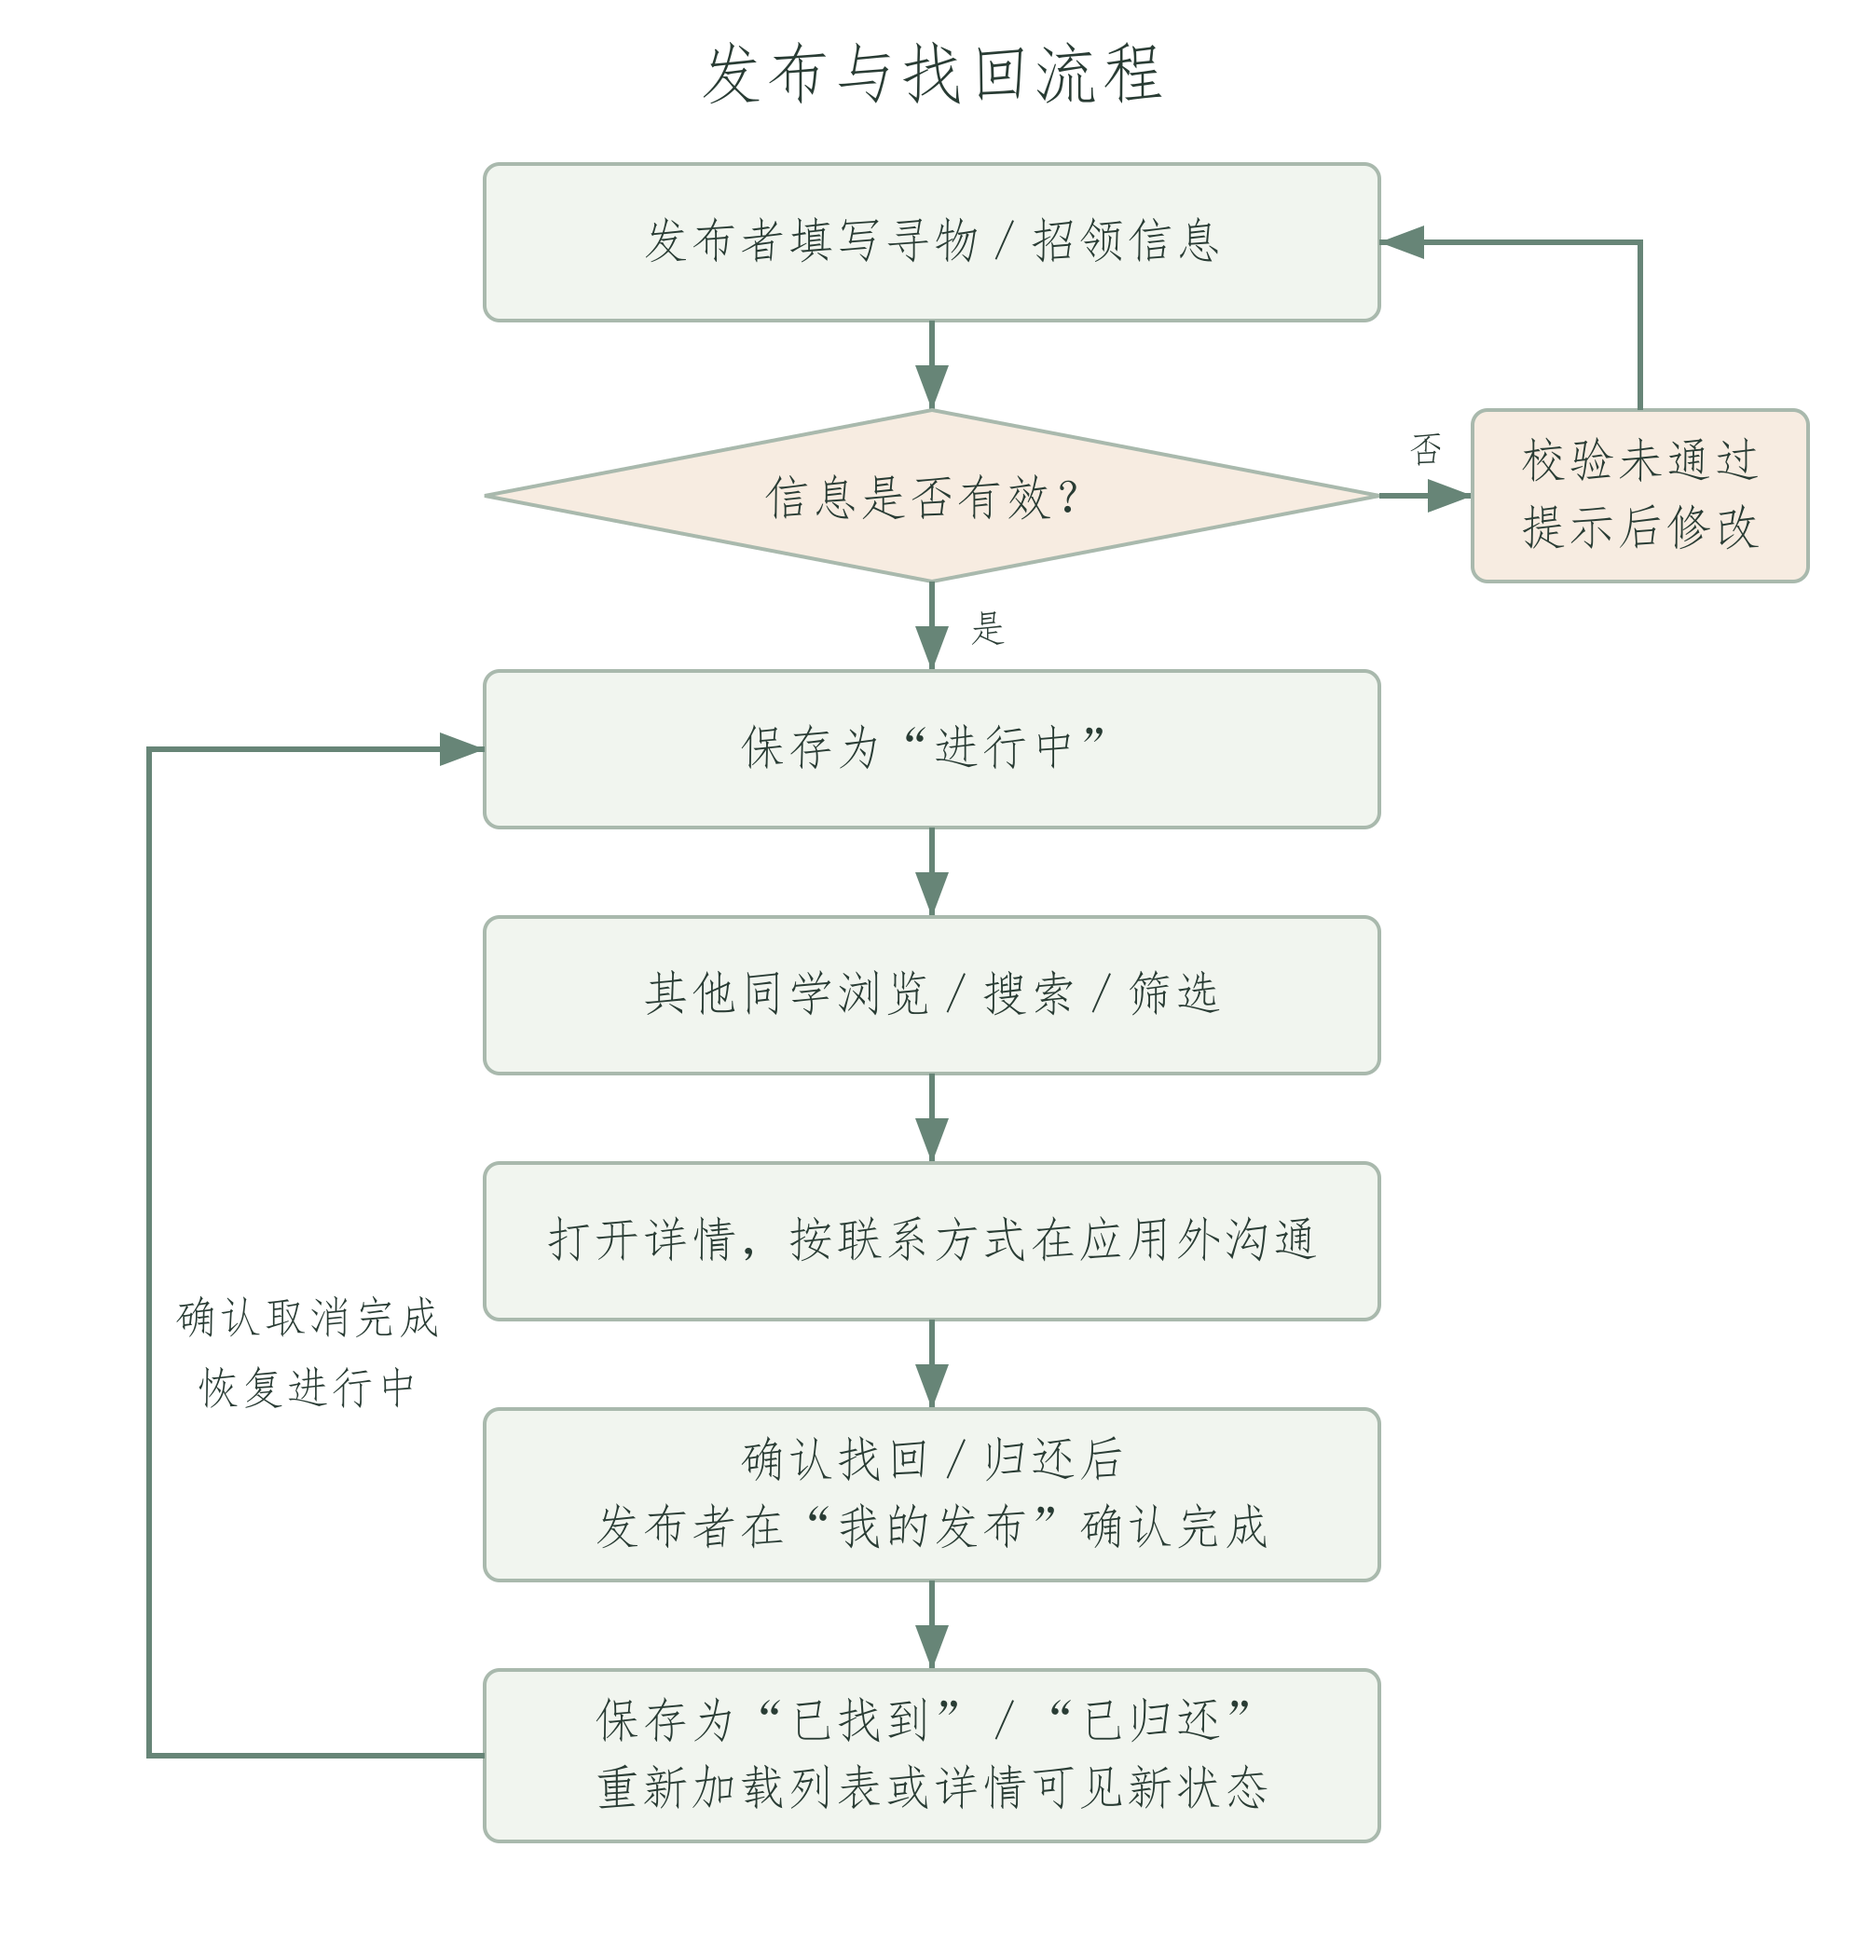
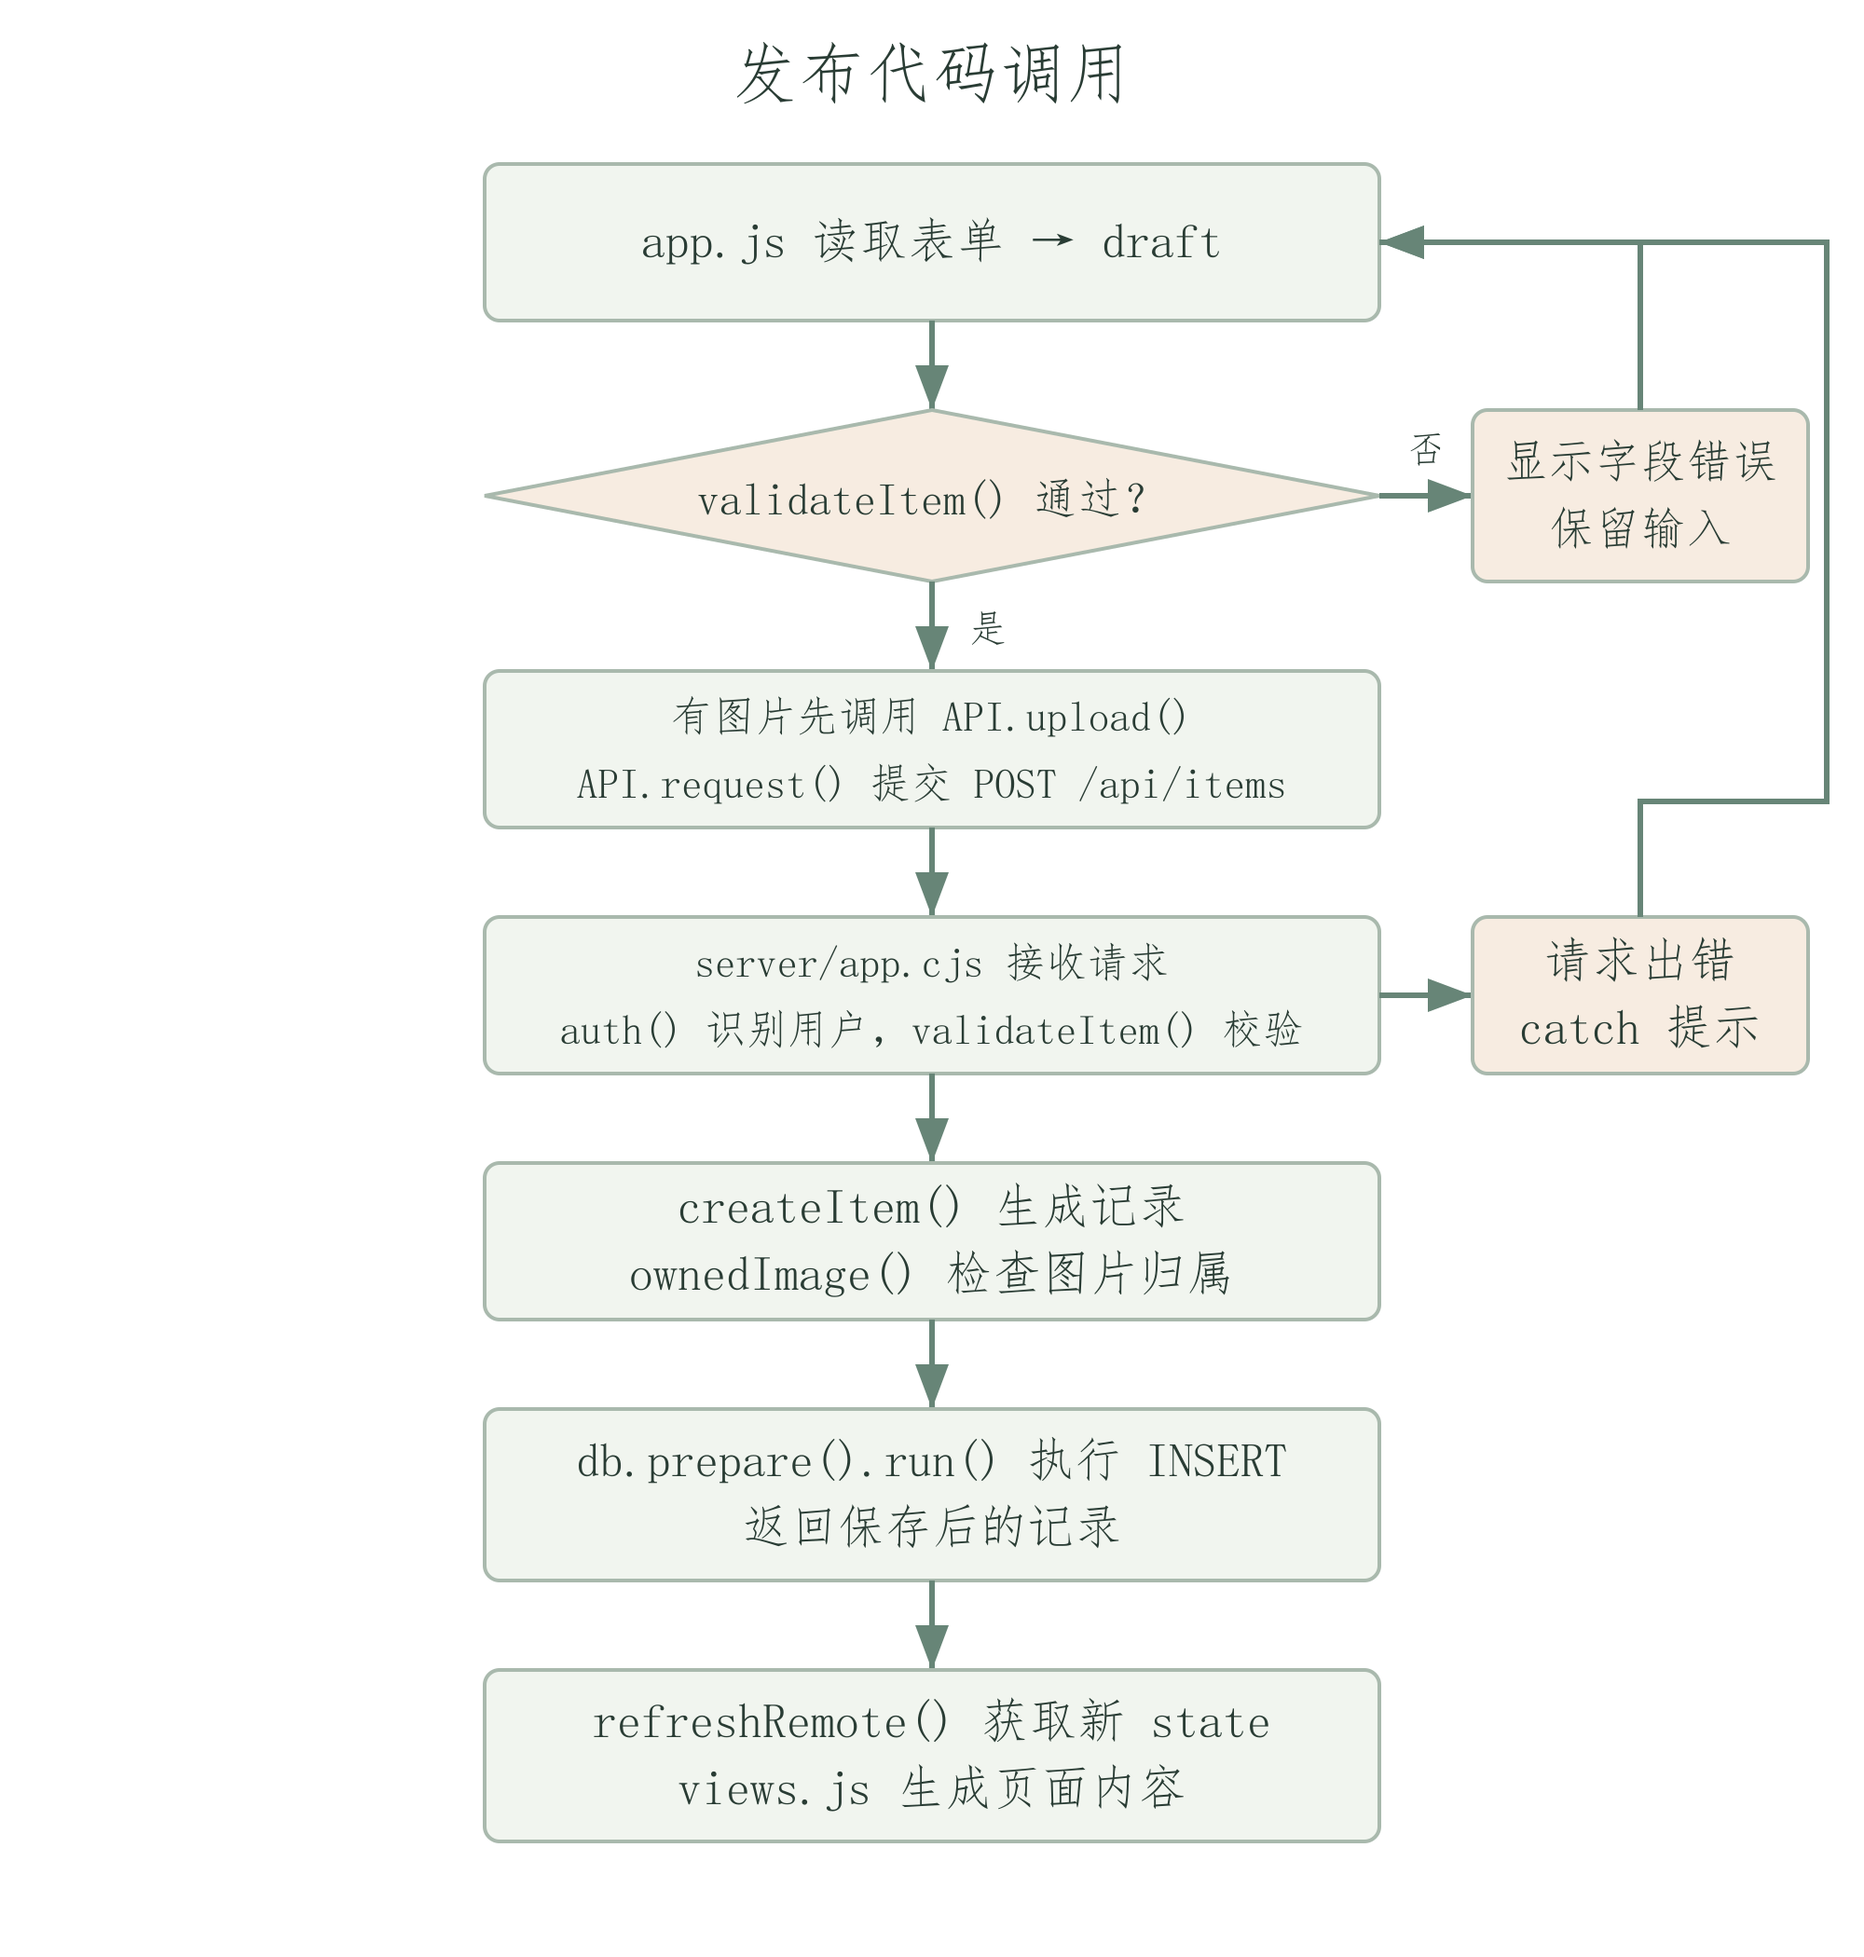
docs: explain code organization and show concrete function calls

diff --git a/docs/2026-10-07-implementation-blog.md b/docs/2026-10-07-implementation-blog.md
@@ -55,11 +55,13 @@
 
 ### 4.1 解题思路
 
-寻物和招领其实都在说同一件事：什么东西、在哪里、什么时候。所以我们共用一张物品表，用`type`区分丢了还是捡到了；首页、详情和“我的发布”按同一个编号读记录，改完再获取一次数据。
+代码先围绕物品记录来写：寻物和招领字段相近，共用数据结构和创建、查询、更新函数，用`type`处理两者的差异。编辑复用发布表单，完成与取消完成只更新状态，不另造一份记录。
 
-校验和筛选放进`data.js`，只接收数据、返回结果，不读取DOM。页面、后端和Mocha都能调用，规则写一遍就够了，少给自己留几处漏改的机会。
+计算和界面分开。`data.js`里的`validateItem()`、`queryItems()`等函数接收普通对象，不读取DOM，前后端和Mocha直接调用；`views.js`根据结果生成HTML，`app.js`负责接按钮事件、调用函数和更新页面。改筛选规则就改函数，改卡片排版就改模板。
 
-<img src="blog-images/2026-10-07/core-flow.png" alt="发布、查找、联系与完成状态的流程" width="680">
+接口请求统一放进`api.js`，处理JSON、登录凭据和响应错误。后端从会话确定操作人，再调用业务函数、执行SQL；页面收到结果后更新`state`并渲染。这样按钮处理里不用到处重复写`fetch`，也不会让页面传来的用户编号决定权限。
+
+<img src="blog-images/2026-10-07/core-flow.png" alt="发布表单、业务函数、后端接口与数据库的代码调用关系" width="680">
 
 ### 4.2 整体结构
 
